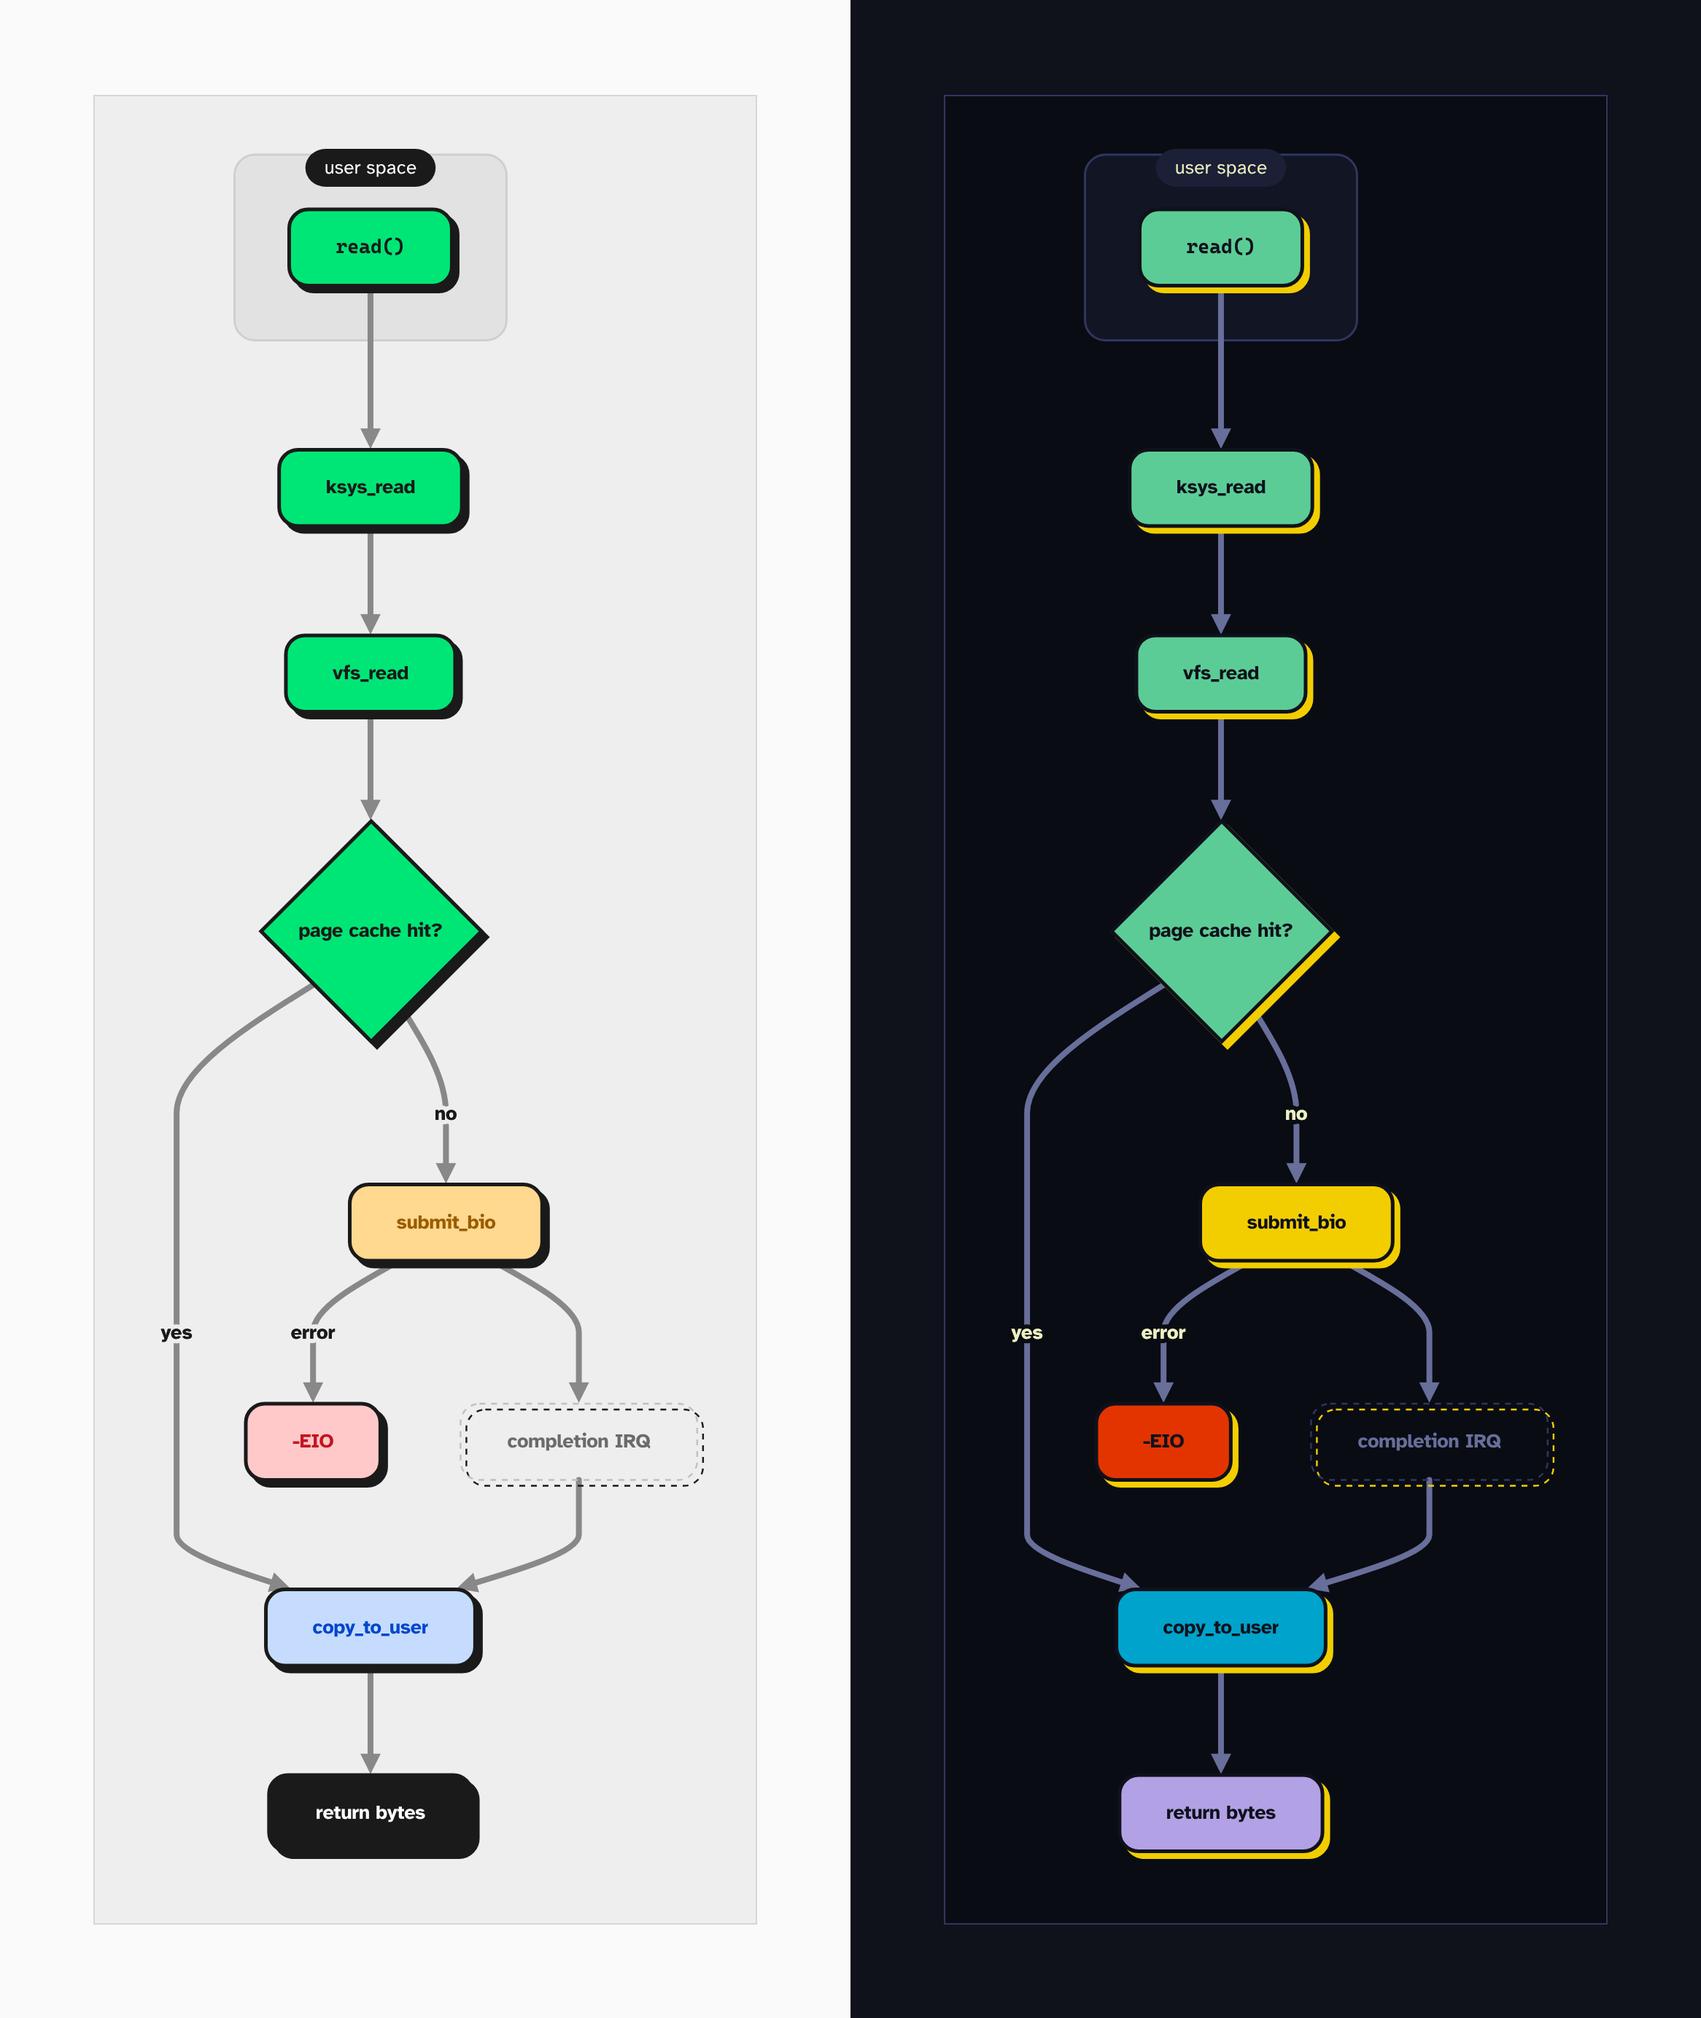
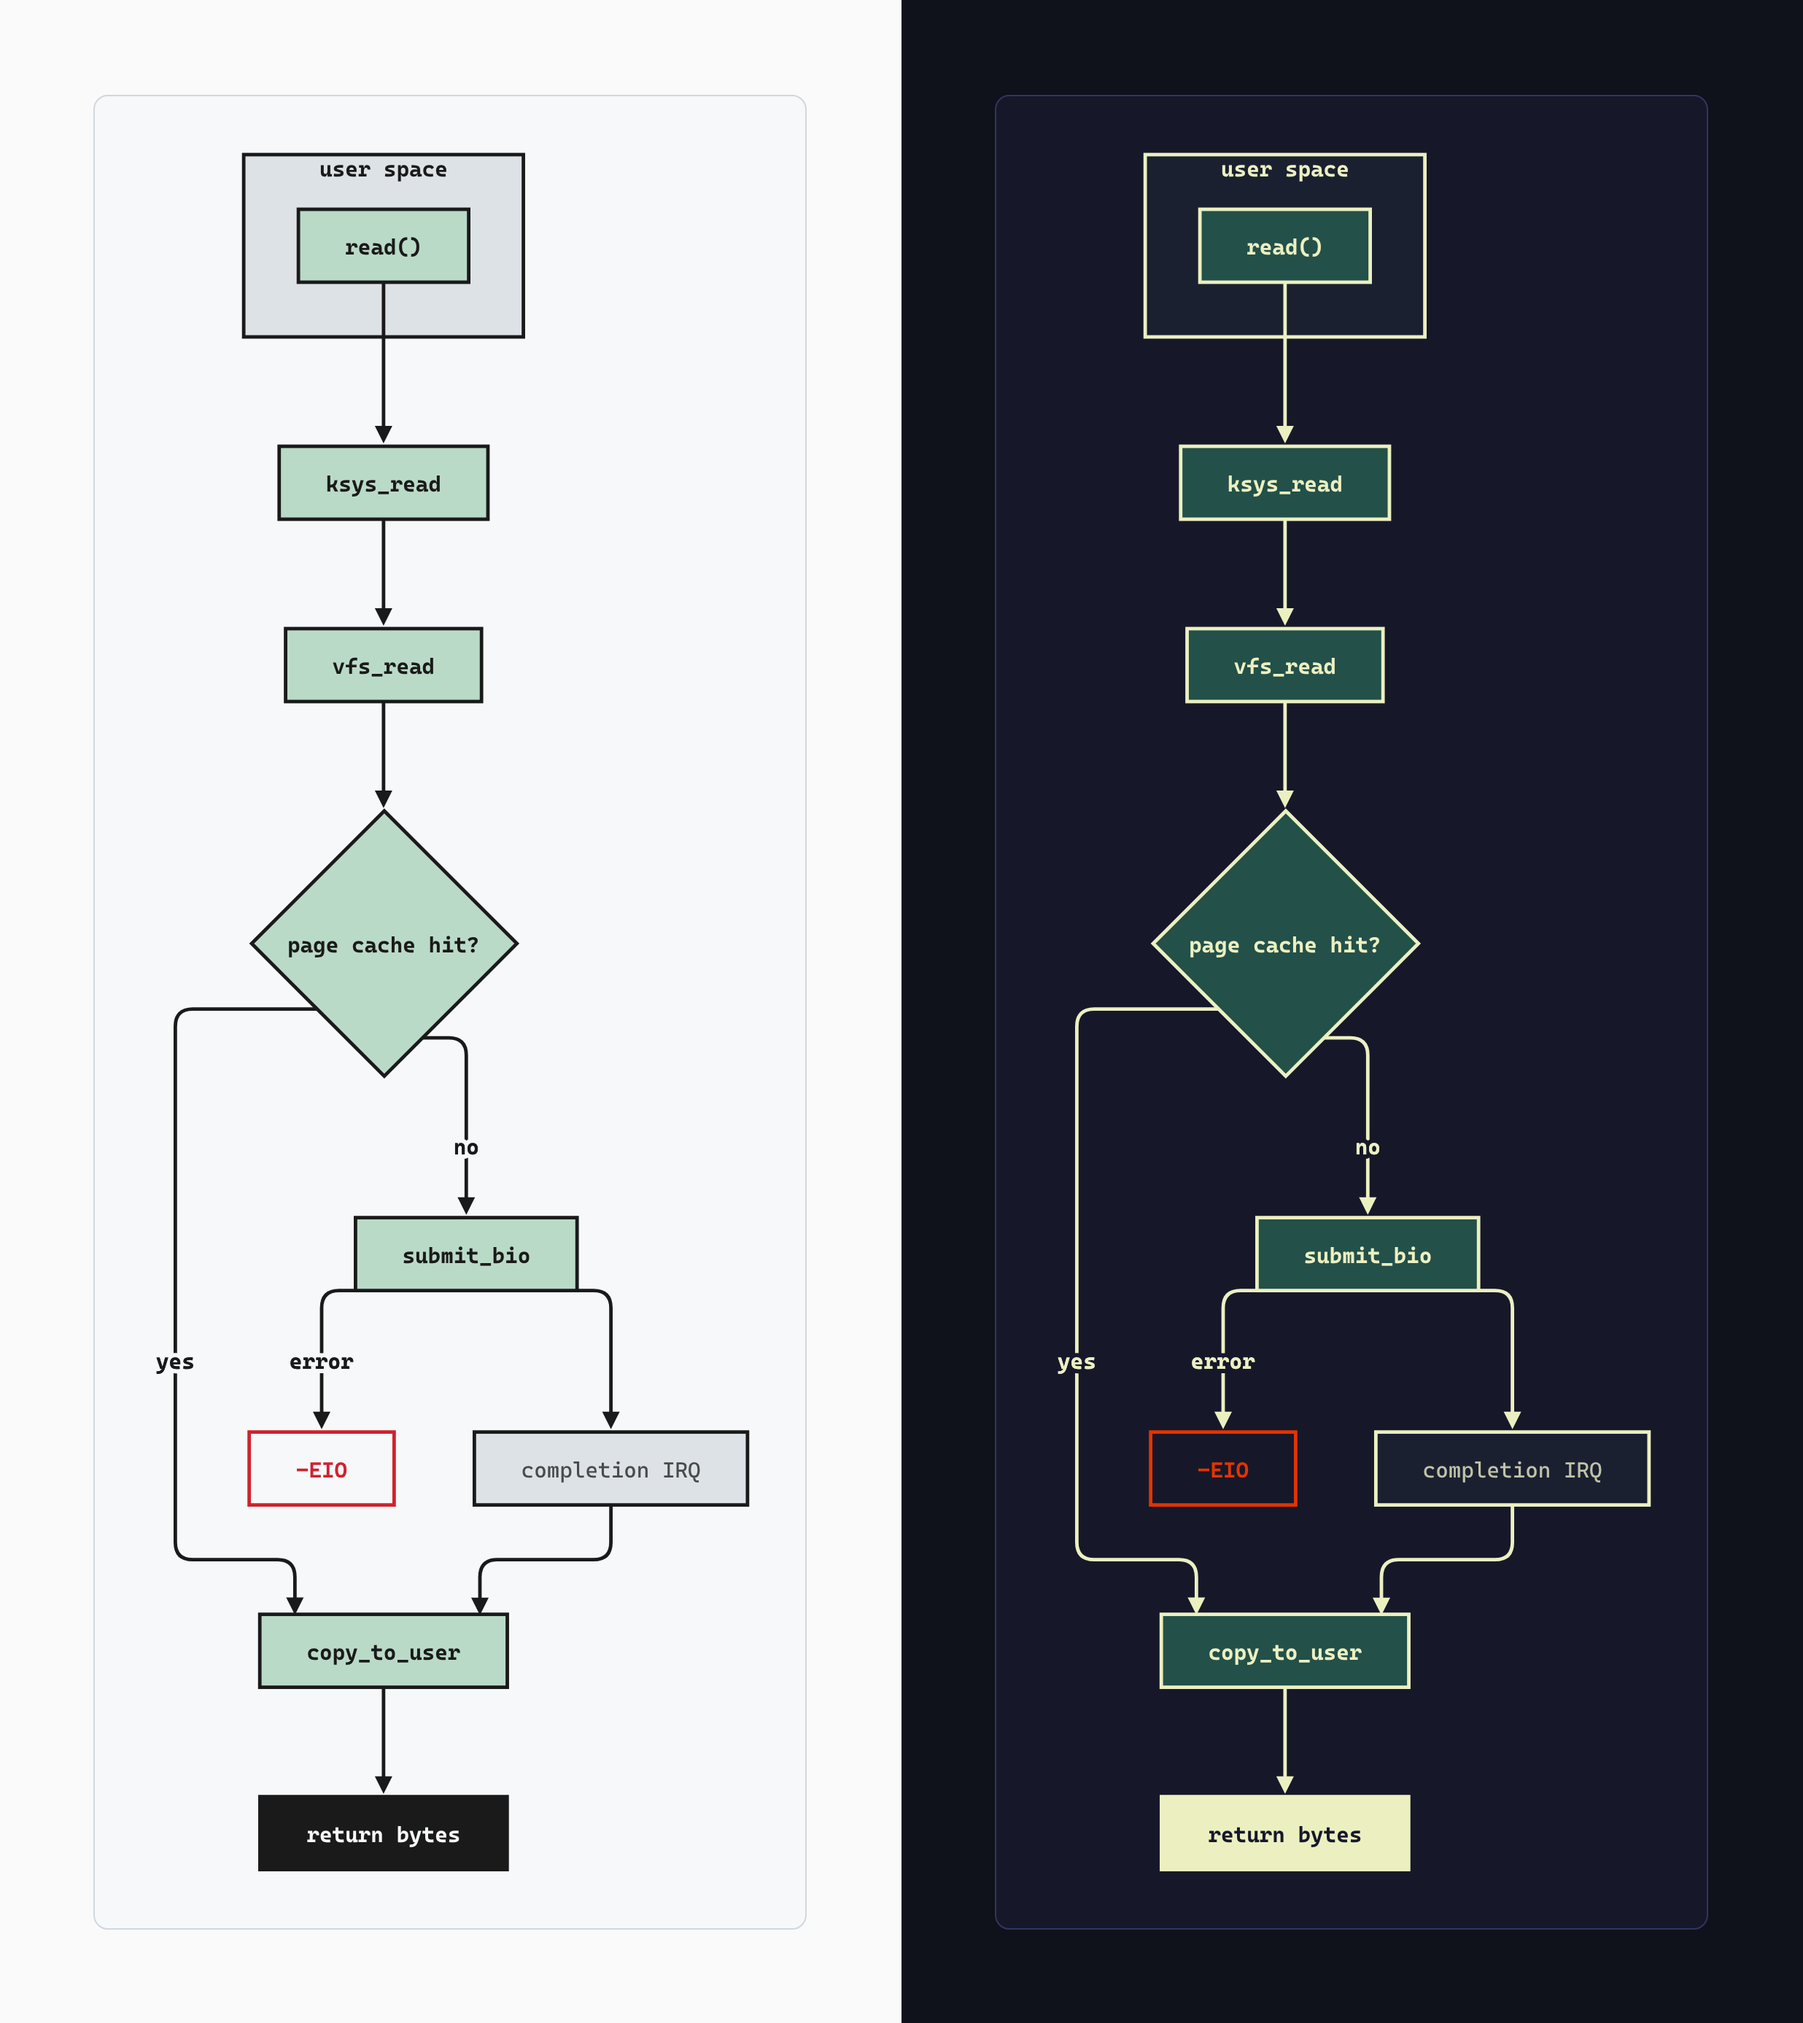
feat: restyle the mermaid forms and keep only the classes the new look draws

Changed region(s): [[0.5866, 0.0622, 0.9262, 0.9328], [0.0926, 0.0622, 0.4322, 0.9328]]

diff --git a/src/mermaid.ts b/src/mermaid.ts
@@ -1,12 +1,10 @@
-const CLASSES = new Set(['accent', 'info', 'warn', 'danger', 'muted', 'code']);
+const CLASSES = new Set(['accent', 'muted', 'danger']);
 
 export function lintMermaid(source: string): string[] {
   const problems: string[] = [];
   source.split('\n').forEach((line, i) => {
     const at = `line ${i + 1}`;
     if (/^\s*(%%\{|classDef\b|style\b|linkStyle\b)/.test(line)) problems.push(`${at}: the page supplies the look; drop this line`);
-    if (/-\.+-?>|-\.\s/.test(line)) problems.push(`${at}: dotted edges render solid; use --> or -- label -->`);
-    if (/&[a-z#][\w]*;|<[a-z/!?]/i.test(line)) problems.push(`${at}: the page does not escape the source, so tags and entities break`);
     for (const m of line.matchAll(/:::([\w-]+)/g)) if (!CLASSES.has(m[1])) problems.push(`${at}: unknown class ${m[1]}`);
     if (/:::[\w-]+:::/.test(line)) problems.push(`${at}: one class per node`);
   });

diff --git a/test/dg.test.ts b/test/dg.test.ts
@@ -97,10 +97,10 @@ test('review regressions stay fixed', () => {
 
 test('the mermaid lint flags what the page would break', () => {
   assert.deepEqual(lintMermaid('flowchart TD\n    a --> b'), []);
-  assert.equal(lintMermaid('flowchart TD\n    a -.-> b').length, 1);
+  assert.deepEqual(lintMermaid('flowchart TD\n    a -.-> b'), []);
+  assert.equal(lintMermaid('flowchart TD\n    a:::info').length, 1);
   assert.equal(lintMermaid('flowchart TD\n    classDef x fill:red').length, 1);
-  assert.equal(lintMermaid('flowchart TD\n    a["x &amp; y"]').length, 1);
-  assert.equal(lintMermaid('flowchart TD\n    a:::info:::code').length, 1);
+  assert.equal(lintMermaid('flowchart TD\n    a:::accent:::muted').length, 1);
 });
 
 const blog = fileURLToPath(new URL('../../blog/', import.meta.url));

diff --git a/forms/mermaid-flowchart/prompt.md b/forms/mermaid-flowchart/prompt.md
@@ -1,6 +1,6 @@
 # Mermaid flowchart
 
-Rounded nodes with a hard offset shadow, thick edges and short labels. Use it for pipelines and decisions, and with rank-pinned subgraphs for state machines.
+Boxes and orthogonal arrows in the memory-layout style: area fills, ink strokes, bold code labels. Use it for pipelines and decisions, and with rank-pinned subgraphs for state machines.
 
 ## Prompt
 
@@ -8,16 +8,13 @@ Write the flow below as a Mermaid `flowchart TD` (or `LR`).
 
 - A pipeline or decision tree keeps one direction and no cycles. A state machine or any other cyclic flow pins each rank with a `subgraph` instead of `stateDiagram-v2`, so back edges stay short.
 - A node label is one function name, or a few words at most. Explanations go in the prose.
-- Edge labels are one to three words. Draw solid arrows only (`-->`, `-- label -->`).
+- Edge labels are one to three words. `-->` is the main path; `-.->` draws a dashed edge for an optional or asynchronous one.
 - Give a node at most one class:
   - `:::accent` the result, or the point of the diagram
-  - `:::info` the normal or fast path
-  - `:::warn` a slow or risky step
-  - `:::danger` an error
   - `:::muted` something off the main path
-  - `:::code` a label that is entirely a code token: signature, variable, flag, hex value. A bare function name is not one. A code token that fits a role above takes the role class.
+  - `:::danger` an error
 - Quote any label with a character other than letters, digits, spaces and `_`, as in `read["read()"]`.
-- Use one language in all labels, and no `<` or `&`.
+- Use one language in all labels.
 - Add no `%%{init}%%`, `classDef` or `style` lines. The page supplies the look.
 - Put `%% id: <name>` right after the diagram type to name exported files.
 

diff --git a/forms/mermaid-sequence/prompt.md b/forms/mermaid-sequence/prompt.md
@@ -1,6 +1,6 @@
 # Mermaid sequence
 
-Participants as rounded boxes with a hard offset shadow, colored lifelines and bold message labels in the code font. Use it for ordered interactions: syscall traces, packet flows, handshakes, RPC, lifecycles. Its grid layout cannot collide.
+Participants, messages and frames in the memory-layout style: area fills, ink strokes, bold code labels. Use it for ordered interactions: syscall traces, packet flows, handshakes, RPC, lifecycles. Its grid layout cannot collide.
 
 ## Prompt
 
@@ -11,7 +11,6 @@ Write the interaction below as a Mermaid `sequenceDiagram`.
 - A message label is the function, syscall, value or event (an IRQ, a signal) that crosses, on one line.
 - Branches use `alt` / `else`, repetition `loop` and optional steps `opt`. Name each branch in one or two words.
 - `Note over <participant>` marks work done without a message. Use it sparingly.
-- Use no `<` or `&` in labels.
 - Add no `%%{init}%%` or styling lines. The page supplies the look.
 - Put `%% id: <name>` right after the diagram type to name exported files.
 
